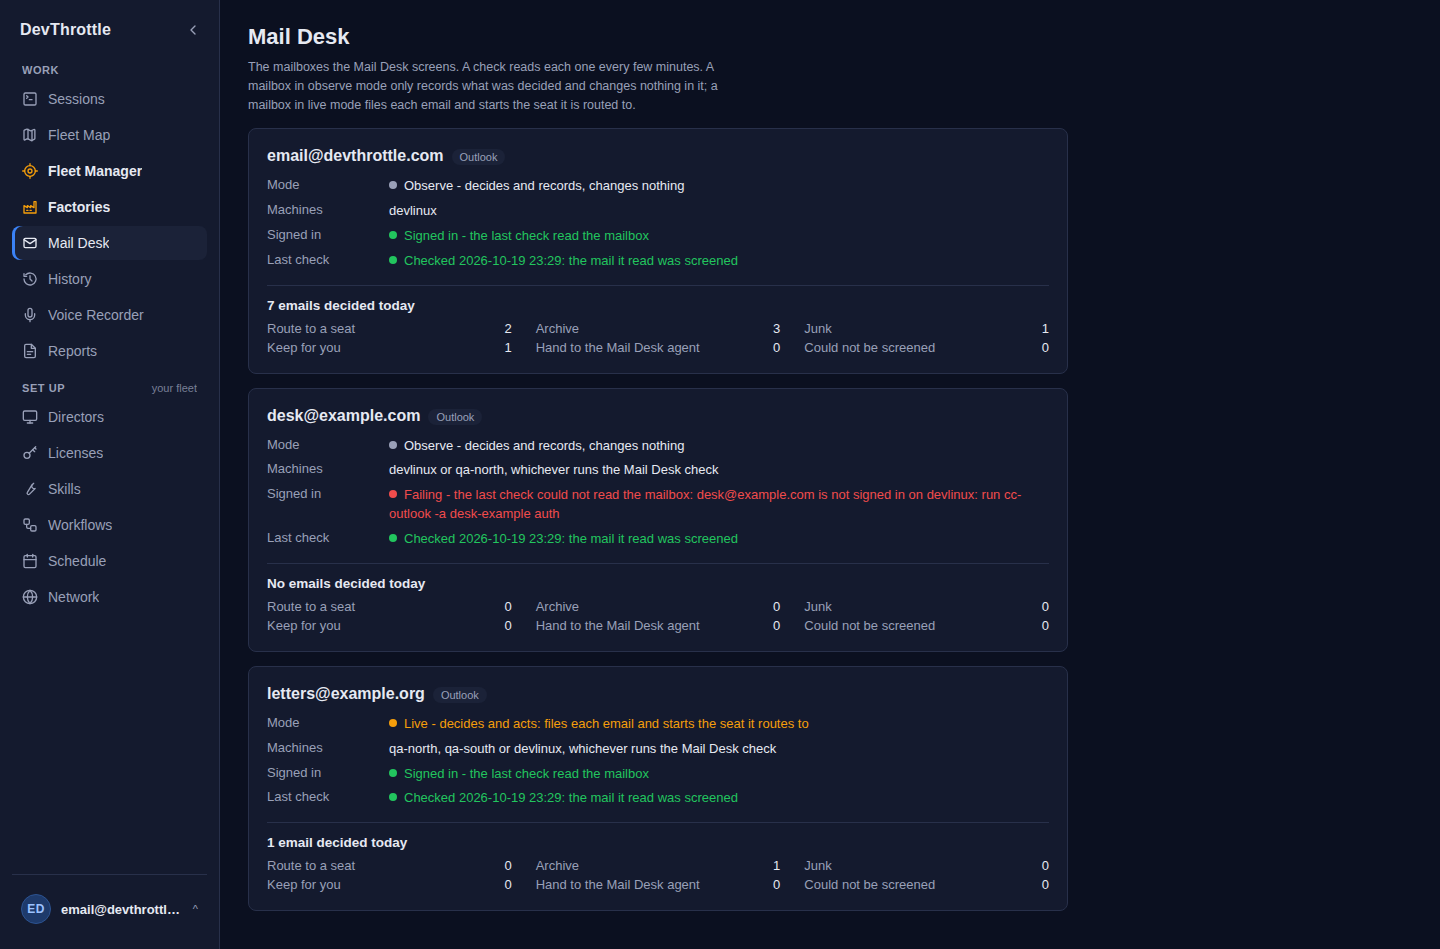
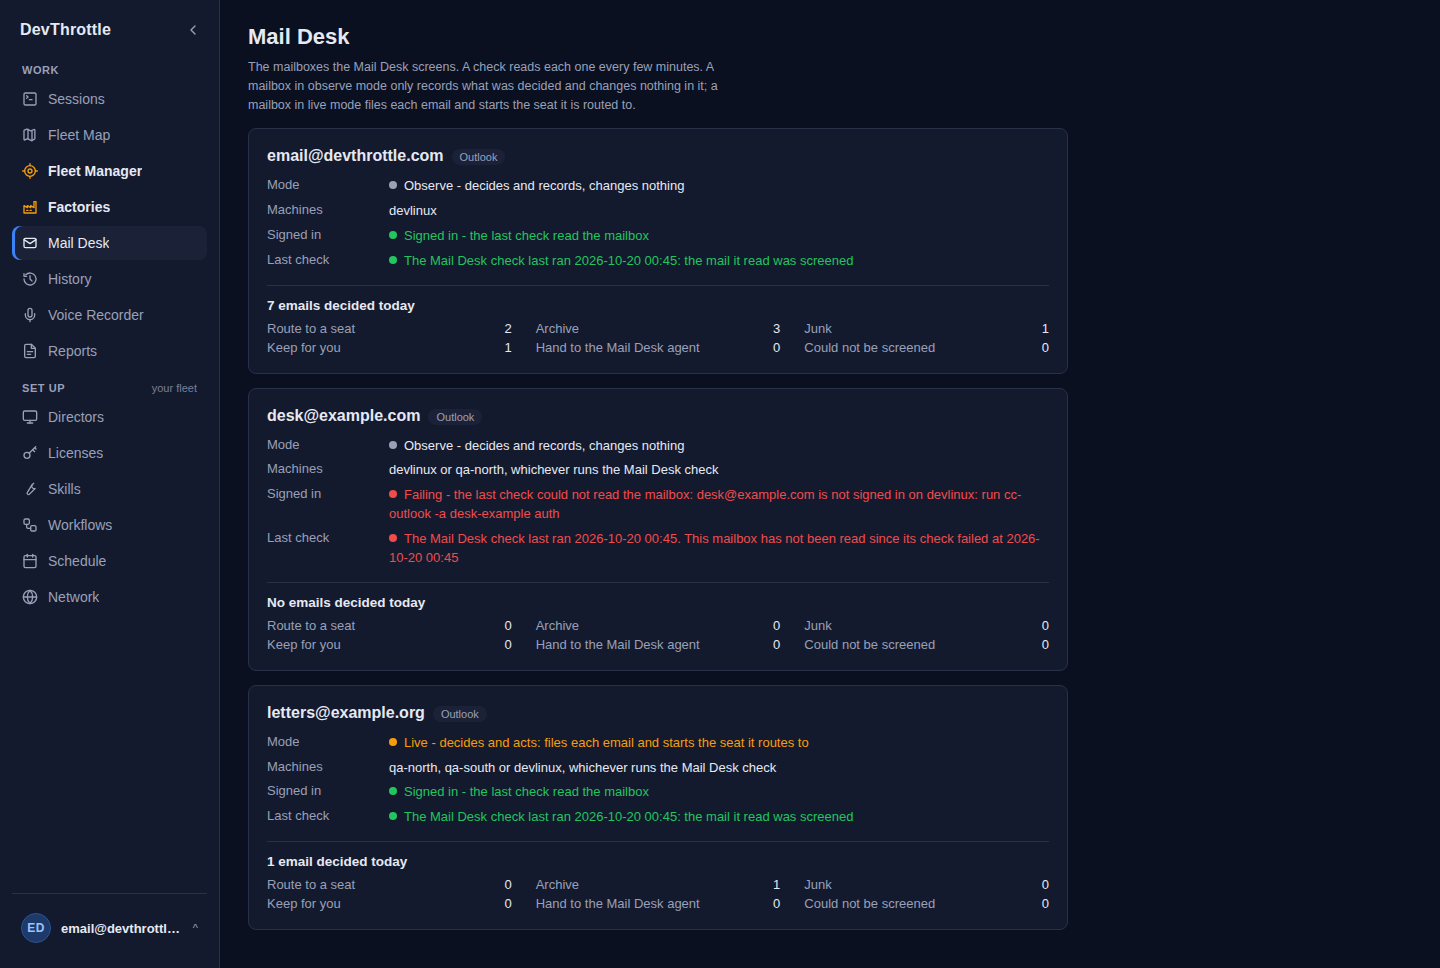
Mail Desk phase 7: the pictures retaken for the last-check and entry fixes, the seed keeps today's decisions on today, and the answers to the phase review
Every picture retaken from this tree: desk@example.com's last check now reads, in red, that it has not been read
since its check failed. seed.py places the run and today's decisions between local midnight and now, so the
pictures are right at any hour. The README quotes the new last-check words and the new counts, and
reviews/phase-review-answers.md answers F1 and the three notes.

diff --git a/docs/qa/mail-desk/phase-7/seed.py b/docs/qa/mail-desk/phase-7/seed.py
@@ -8,8 +8,9 @@ Four scenarios, in the order the capture takes them on ONE Gateway and ONE accou
                                                                        -> every card: "Not checked yet - the mail-desk
                                                                           factory is not published", "Not known yet"
   on           the factory published, one screening run's last check, its kept checks and today's decisions
-                                                                       -> each card its own signed-in state beside the
-                                                                          account's "Checked <time>: ..."
+                                                                       -> each card its own signed-in state; the last
+                                                                          check names the account's run, and on the
+                                                                          failing mailbox says it has not been read since
   off          the switch OFF again                                    -> /mail-desk is "Page not found", no entry
 
 The three mailboxes (contract section 4: one signed in with decisions today, one NOT signed in whose last check
@@ -226,14 +227,26 @@ def write_last_check(c, checked):
     say(f"the Mail Desk start's last check: screened, {RUN_SUMMARY}")
 
 
+def minutes_ago(now, minutes):
+    """`minutes` before `now`, squeezed so it is still TODAY. The page counts decisions since local midnight in the
+    account's time zone, which on a throwaway Gateway is this machine's own (TimeZoneConfig). Taken shortly after
+    midnight, the seed's 95 minutes would fall on yesterday and the pictures would show the wrong counts, so every time
+    is scaled into the time since local midnight, keeping its order. Later in the day nothing is scaled."""
+    local_now = now.astimezone()
+    since = (local_now - local_now.replace(hour=0, minute=0, second=0, microsecond=0)).total_seconds() / 60
+    longest = max(m for *_, m, _, _ in DECISIONS) + 1  # the received time is one minute before the decision
+    scale = 1.0 if since > longest + 1 else since * 0.9 / longest
+    return now - timedelta(minutes=minutes * scale)
+
+
 def write_decisions(c, ids, now):
     for n, (address, decision, layer, minutes, sender, subject) in enumerate(DECISIONS, start=1):
         cid = ids[address]
         live = address == LIVE_BOX
-        at = now - timedelta(minutes=minutes)
+        at = minutes_ago(now, minutes)
         insert(c, "mail_desk_decisions", {
             "Id": new_id(cid), "tenant_id": ACCOUNT_ID, "ChannelId": cid, "MessageKey": f"qa-phase-7-message-{n}",
-            "ReceivedUtc": stamp(at - timedelta(minutes=1)), "SenderAddress": sender, "Subject": subject,
+            "ReceivedUtc": stamp(minutes_ago(now, minutes + 1)), "SenderAddress": sender, "Subject": subject,
             "Layer": layer, "Decision": decision,
             "RouteFactory": "qa-orders" if decision == "route" else None,
             "RouteSeat": "orders-desk" if decision == "route" else None,
@@ -310,7 +323,7 @@ def main():
             fail("the on scenario follows the unpublished one: the three mailboxes must already be on the desk")
         publish_factory(gateway, key)
         now = datetime.now(timezone.utc)
-        checked = now - timedelta(minutes=RUN_MINUTES_AGO)
+        checked = minutes_ago(now, RUN_MINUTES_AGO)
         write_last_check(c, checked)
         write_checks(c, ids, checked)
         write_decisions(c, ids, now)

diff --git a/docs/qa/mail-desk/phase-7/README.md b/docs/qa/mail-desk/phase-7/README.md
@@ -18,8 +18,10 @@ origin/main `66658a098` (Mail Desk phases 3 and 5 in).
   `cc-devthrottle maildesk` command's `--json` keeps its shape. A tone or label the fold does not know throws, never
   falls back to a colour.
 - **Hidden with the switch off.** The page and its entry read the same route; its 404 (the Mail Desk gate) means off,
-  and the page is then the shell's ordinary "Page not found" with no entry in the rail or the menu. Any other failure
-  keeps the entry, shows the error and reports it, and asks again, as the Cockpit's Mentor entry does.
+  and the page is then the shell's ordinary "Page not found" with no entry in the rail or the menu. The entry is drawn
+  ONLY after a read that succeeded: any other failure (offline, a timeout, a 5xx, a broken answer) draws no entry,
+  reports it and asks again, and the page itself, reached by its address, shows the error (corrected after the phase
+  review, finding F1; `reviews/phase-review-answers.md`).
 
 ## The proof
 
@@ -82,7 +84,7 @@ each screen showed, read from the page itself. `answer-<scenario>.json` holds th
 | [`desktop-empty.png`](shots/desktop-empty.png), [`phone-empty.png`](shots/phone-empty.png) | Switch on, no mailbox. The page shows the Gateway's title, summary and empty sentence verbatim. The Cockpit rail's Work section has "Mail Desk" directly after Factories, and it is the active row. |
 | [`phone-drawer-empty.png`](shots/phone-drawer-empty.png), [`phone-drawer-unpublished.png`](shots/phone-drawer-unpublished.png), [`phone-drawer-on.png`](shots/phone-drawer-on.png) | Switch on. The phone's menu has "Mail Desk" after Repos. The three pictures are the same image (the same checksum): the menu does not change with the mailboxes. |
 | [`desktop-unpublished.png`](shots/desktop-unpublished.png), [`phone-unpublished.png`](shots/phone-unpublished.png) | Three mailboxes, the mail-desk factory still a draft. Every card is drawn in the Gateway's order with every field. Nothing has checked a mailbox yet, and both lines say so: "Not known yet - no check has read the mailbox" and "Not checked yet - the mail-desk factory is not published", both neutral. Every decision count is listed, zeros included. Live mode is amber on `letters@example.org` only. |
-| [`desktop-on.png`](shots/desktop-on.png), [`phone-on.png`](shots/phone-on.png) | The factory published and one screening run done. Each card shows its own signed-in state beside the account's "Checked 2026-10-19 23:29: the mail it read was screened". `email@devthrottle.com` is signed in (green), in observe mode, with 7 emails decided today: Route to a seat 2, Archive 3, Junk 1, Keep for you 1. `desk@example.com` is NOT signed in (red), with the check's own sentence naming the fix. `letters@example.org` is signed in and live, with 1 email decided today. The machines sentences read one, two and three machines. Every card is shown whole, and the third is not cut off. |
+| [`desktop-on.png`](shots/desktop-on.png), [`phone-on.png`](shots/phone-on.png) | The factory published and one screening run done. Each card shows its own signed-in state. A signed-in card's last check names the account's run: "The Mail Desk check last ran 2026-10-20 00:45: the mail it read was screened" (green). `email@devthrottle.com` is signed in (green), in observe mode, with 7 emails decided today: Route to a seat 2, Archive 3, Junk 1, Keep for you 1. `desk@example.com` is NOT signed in (red), with the check's own sentence naming the fix, and its last check says so too, in red: "The Mail Desk check last ran 2026-10-20 00:45. This mailbox has not been read since its check failed at 2026-10-20 00:45" - the card no longer says "Failing" in red beside a green "screened" (the ruling of 20 October 2026, contract section 2). `letters@example.org` is signed in and live, with 1 email decided today. The machines sentences read one, two and three machines. Every card is shown whole, and the third is not cut off. |
 | [`desktop-off.png`](shots/desktop-off.png), [`phone-off.png`](shots/phone-off.png) | Switch off. `/mail-desk` is the shell's ordinary "Page not found", exactly as an unknown address shows it, and the Cockpit rail has no Mail Desk row. |
 | [`phone-drawer-off.png`](shots/phone-drawer-off.png) | Switch off. The phone's menu has no Mail Desk entry: Repos is followed directly by the separator and Account. |
 
@@ -107,19 +109,24 @@ PYTHONDONTWRITEBYTECODE=1 NODE_PATH=$HOME/.local/share/devthrottle/qa-tools/node
   python3 docs/qa/mail-desk/phase-7/capture.py <a rig folder outside the checkout> docs/qa/mail-desk/phase-7/shots
 ```
 
-The times on the cards are the time of the run, so a new run differs from these pictures there and nowhere else.
+The times on the cards are the time of the run, so a new run differs from these pictures there and nowhere else. The
+pictures may be taken at any hour: the page counts decisions since local midnight in the account's time zone (on the
+throwaway Gateway, this machine's), so `seed.py` places the run and every decision between local midnight and now -
+taken shortly after midnight, it squeezes their "minutes ago" into the time since midnight, keeping their order. The
+pictures here were taken at 00:45, which is why both the run and the failed check read 2026-10-20 00:45.
 
 ### The tests behind the page
 
-Run on the same tree (`a2cbfdc29`):
+Run on the tree with the last-check and entry fixes (`5f2c4c47e`, branch `mail-desk-p7-lastcheck`):
 
 | Command | Result |
 |---|---|
-| `npx tsc --noEmit` in `packages/client-core`, `apps/cockpit`, `apps/mobile` | clean, all three |
-| `npx vitest run --minWorkers=1 --maxWorkers=2` in `packages/client-core` | 2,297 passed of 2,297 (182 files) |
-| the same in `apps/cockpit` | 1,334 passed of 1,334 (126 files) |
-| the same in `apps/mobile` | 183 passed of 183 (37 files) |
-| `dotnet test src/CcDirector.Gateway.UnitTests -p:EnableWindowsTargeting=true --filter "FullyQualifiedName~MailDesk"` (with `DOTNET_USE_POLLING_FILE_WATCHER=1` and a scratch `LOCALAPPDATA`) | 540 passed of 540 |
+| `npm run typecheck` at the repository root (client-core, cc-assistant, cockpit, mobile) | clean, exit 0 |
+| `npx vitest run --minWorkers=1 --maxWorkers=2` in `packages/client-core` | 2,302 passed of 2,302 (182 files) |
+| the same in `apps/cockpit` | 1,335 passed of 1,335 (126 files) |
+| the same in `apps/mobile` | 186 passed of 186 (37 files) |
+| `dotnet test src/CcDirector.Gateway.UnitTests -p:EnableWindowsTargeting=true --filter "FullyQualifiedName~MailDesk"` (with `DOTNET_USE_POLLING_FILE_WATCHER=1` and a scratch `LOCALAPPDATA`) | 549 passed of 549 |
+| `python3 -m pytest tests/test_maildesk_ops.py` in `tools/cc-devthrottle` | 122 passed of 122 |
 
 ### What is NOT proven
 
@@ -159,7 +166,7 @@ One Gateway and one account, `email@devthrottle.com`, in this order:
 |---|---|---|
 | `empty` | The Mail Desk switched on, no mailbox | The Gateway's empty sentence; the entry in the rail and the menu |
 | `unpublished` | Three mailboxes; the mail-desk factory still the draft the switch offered | Three cards, each "Not known yet - no check has read the mailbox" and "Not checked yet - the mail-desk factory is not published" |
-| `on` | The factory published, one screening run's last check, its kept checks, today's decisions | Each card its own signed-in state beside the account's "Checked <time>: ..." |
+| `on` | The factory published, one screening run's last check, its kept checks, today's decisions | Each card its own signed-in state; the last check names the account's run ("The Mail Desk check last ran <time>: ..."), and on the failing mailbox says it has not been read since its check failed, in red |
 | `off` | The switch off again | "Page not found" on both shells; no entry in the rail or the menu |
 
 The three mailboxes:
@@ -191,8 +198,8 @@ How each part is written:
 
 ### Last check is per account, by design
 
-Every card shows the same "Last check", taken from the account's Mail Desk start. "Signed in" is the mailbox's own.
-That is deliberate (the phase 7 Tech Lead's ruling, 19 October 2026):
+Every card's "Last check" is taken from the account's Mail Desk start, and its words say so: "The Mail Desk check last
+ran <time>: ...". "Signed in" is the mailbox's own. That is deliberate (the phase 7 Tech Lead's ruling, 19 October 2026):
 
 - **One run of the Mail Desk start checks every mailbox.** So the start's last check is each mailbox's last check;
   there is no per-mailbox time that could differ from it.
@@ -203,6 +210,12 @@ That is deliberate (the phase 7 Tech Lead's ruling, 19 October 2026):
   factory is not published" - a contradiction the seed made, not one the product can. The seed now publishes the
   factory first, and the `unpublished` scenario shows the honest state before any check: neither line knows anything
   yet.
+- **A failing mailbox's last check says it has not been read since** (ruling of 20 October 2026, contract section 2).
+  The first pictures showed `desk@example.com` as "Failing" in red beside a green "Checked ...: the mail it read was
+  screened" - two contradictory statements about one mailbox. Now, when a mailbox's `signedIn` is `failing`, its last
+  check gives both times - the run's, and its own failed check's from phase 3's kept checks - and its tone is bad,
+  whatever the run's outcome. The run's time and outcome are unchanged in the answer; only the words and the tone
+  are the mailbox's. Before the run has a time (not published, or never checked) the label stays as it was.
 
 ### What the dry runs found about the tools
 

diff --git a/docs/qa/mail-desk/phase-7/reviews/phase-review-answers.md b/docs/qa/mail-desk/phase-7/reviews/phase-review-answers.md
@@ -1,0 +1,51 @@
+# Phase 7 - answers to the phase review
+
+The building seat's answers to `PHASE-REVIEW.md`. The page's original Developer is closed, so the Developer of the
+last-check fix (branch `mail-desk-p7-lastcheck`) answers, by the phase 7 Tech Lead's instruction of 20 October 2026.
+
+## F1. For an account with the switch OFF, any failed read draws the "Mail Desk" entry - ACCEPTED
+
+**Fixed in `5f2c4c47e`.** The contract was corrected first (section 1, row "A failed read that is NOT a 404", at
+`426f4a49b`); the code now matches it.
+
+- `packages/client-core/src/maildesk/useMailDeskEntry.ts` draws the entry ONLY after a channels read that succeeded.
+  A failed read - offline, a timeout, a 5xx, an answer that breaks the contract - leaves the entry hidden, is reported
+  to the client error log (`surface: "mail-desk-entry"`, not shown to the person) and is asked again on the shell's
+  rhythm (`retryDelayMs`: 15 seconds, 30, then every 60). A successful read is settled for the page load, so no later
+  failure is asked and none can take the entry away.
+- The page itself, reached by its address, still shows the error, so a failure never looks like "switched off" where a
+  person is looking at the Mail Desk.
+- **Why accepted:** the hook cannot know the account's switch while the read fails. Showing the entry then shows the
+  Mail Desk to every account that is off during every offline spell and every Gateway deploy, which breaks D21
+  ("hidden when off") and the condition of the deploy grant D16. Hiding a working entry for a minute costs the owner one
+  menu row; the page stays reachable by its address.
+- **Tests**, one per failure kind, each proving the entry stays hidden and the failure is reported once:
+  - client-core `useMailDeskEntry.test.tsx`: `useMailDeskEntry_ReadFails_<kind>_KeepsTheEntryHiddenAndReportsIt` for
+    offline, a timeout, a 5xx and a broken answer; `..._AsksAgainOnTheShellsRhythmAndOffersTheEntryOnlyOnceAReadSucceeds`;
+    `..._ReadSucceededThisPageLoad_ALaterFailureDoesNotTakeTheEntryAway`. The old test that asserted the entry shows
+    on a failure is replaced.
+  - Cockpit `AppShell.test.tsx`: "is NOT drawn, and the failure reported, on <kind>" for the same four kinds, and
+    "asks again on the shell's rhythm after a failure, and draws the entry only when the Gateway then answers with its
+    list".
+  - Phone `NavDrawer.test.tsx`: `NavDrawer_MailDeskReadFails_<kind>_DrawsNoMailDeskEntryAndReportsIt` for the four kinds.
+  - Run against the OLD hook, these fail: 5 of 11 in client-core, 4 of 41 in the Cockpit file, 4 of 8 in the phone
+    file. Against the new hook all pass.
+
+## Note 1. A green "Last check" beside a red "Signed in" - CHANGED (not by this review)
+
+The owner side ruled on it the same day (contract section 2, ruling of 20 October 2026): every last-check label now
+names the account's run ("The Mail Desk check last ran <time>: ..."), and on a mailbox whose own check is failing it
+says "This mailbox has not been read since its check failed at <time>" in the bad tone. Gateway fold change and tests in
+`9b76eebb2`; the retaken pictures show it.
+
+## Note 2. A stale comment in `mailDeskClient.ts` - ACCEPTED
+
+**Fixed in `5f2c4c47e`.** The header now says "Keep for you" (the Gateway's word) and "the sentence naming the machines
+that may read a mailbox" instead of "which machine is tried first"; the `machines` field's comment no longer says
+"In order of preference" but "the machines that may read the mailbox, in the order the channel lists them; no claim
+about which reads first", matching the fold after the Gateway fold review's F1. Comments only; no behaviour changed.
+
+## Note 3. One extra request per app load for every account - no change
+
+Noted by the review as no change needed, and none is made: the answer for an account that is off is still the gate's
+404, and the one log line per load is expected.
